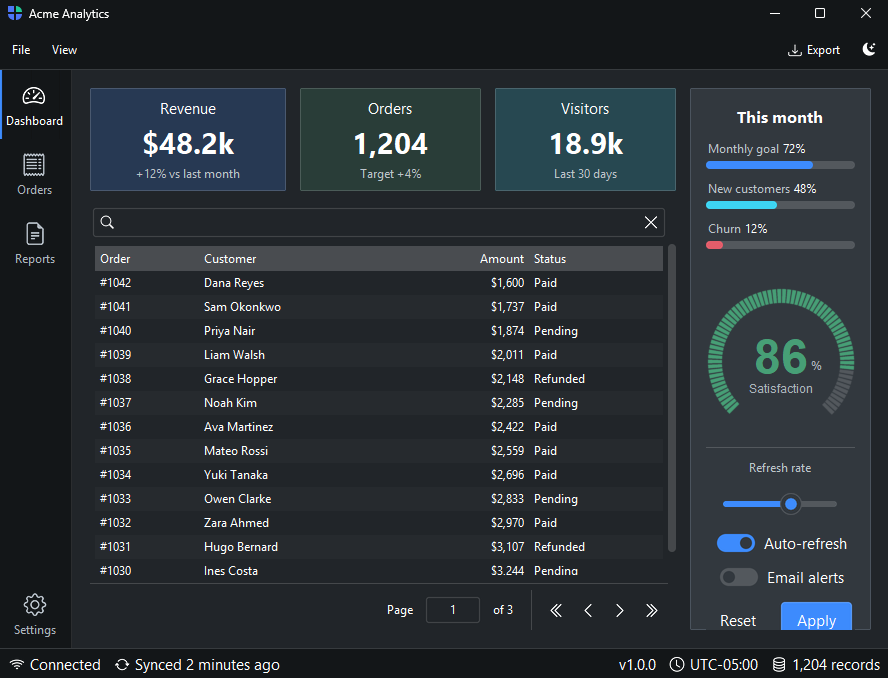
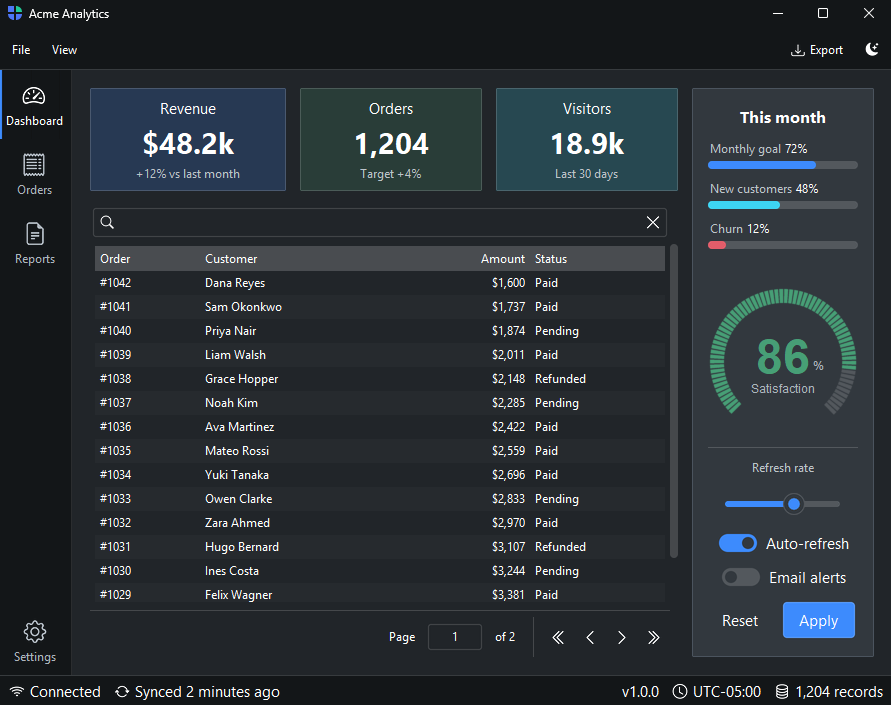
docs: tune the home hero scene (auto-fit height, 15 rows) + regenerate
Switch the Workbench hero from a fixed size to minsize=(890,500) so it auto-fits
height, and bump the table to page_size=15.

diff --git a/docs/screenshots/home-hero.py b/docs/screenshots/home-hero.py
@@ -42,7 +42,7 @@ def _stat(label, pct, accent):
         bs.ProgressBar(value=pct, accent=accent, horizontal="stretch")
 
 
-with bs.Workbench(title="Acme Analytics", size=(890, 650),
+with bs.Workbench(title="Acme Analytics", minsize=(890, 500),
                   rail_labels=True, show_sidebar=False, show_statusbar=True) as shell:
     shell._capture_full_window = True
     shell._capture_max_width = 940
@@ -84,7 +84,7 @@ with bs.Workbench(title="Acme Analytics", size=(890, 650),
                             ],
                             rows=ORDERS,
                             density="compact",
-                            page_size=13,
+                            page_size=15,
                             grow=True, horizontal="stretch",
                         )
 